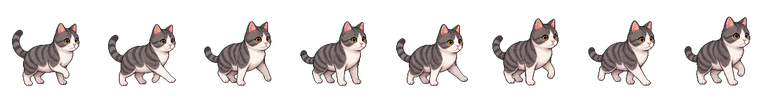
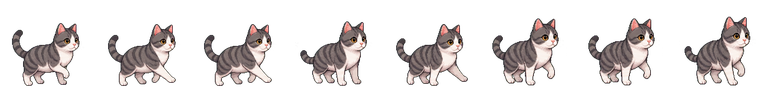
fix: stabilize room interaction visuals

Changed region(s): [[0.25, 0.2188, 0.375, 0.9062], [0.75, 0.1875, 0.875, 0.9062]]

diff --git a/src/components/PhaserCatScene.tsx b/src/components/PhaserCatScene.tsx
@@ -17,7 +17,7 @@ interface CollisionRect {
   height: number;
 }
 
-type CatAction = "idle" | "walk" | "jump" | "sleep" | "interact" | "eat" | "lie";
+type CatAction = "idle" | "walk" | "jump" | "sleep" | "interact" | "lie";
 type CollisionConfig = Record<string, CollisionRect>;
 type EnvironmentZoneKind = "floor" | "perch" | "rest" | "food" | "blocker";
 type CatRoutine =
@@ -68,13 +68,13 @@ interface ScriptedJump {
 }
 
 const SCENE_ASSET_ROOT = "/assets/scenes/window-room";
-const CAT_ACTIONS: CatAction[] = ["idle", "walk", "jump", "sleep", "interact", "eat", "lie"];
+const CAT_ACTIONS: CatAction[] = ["idle", "walk", "jump", "sleep", "interact", "lie"];
 
 const PERSONALITY_SPEED: Record<CatPersonality, number> = {
-  GLUTTON: 32,
-  ALOOFS: 26,
-  CLINGY: 30,
-  ENERGY: 40,
+  GLUTTON: 24,
+  ALOOFS: 20,
+  CLINGY: 22,
+  ENERGY: 30,
 };
 
 const PHYSICAL_SURFACES = new Set(["floor"]);
@@ -118,8 +118,8 @@ const CAT_BED_SURFACE = {
 };
 const CAT_BED_ENTRY_X = CAT_BED_ZONE.xMax + 16;
 const CAT_BED_EXIT_X = CAT_BED_ENTRY_X + 20;
-const FOOD_BOWL_X = FOOD_ZONE.xMin - 30;
-const FOOD_BOWL_STAND_Y = FLOOR_STAND_Y + 28;
+const FOOD_BOWL_X = FOOD_ZONE.xMin - 34;
+const FOOD_BOWL_STAND_Y = FLOOR_STAND_Y + 26;
 const PLANT_INSPECT_X = PLANT_ZONE.xMin - 22;
 const BLANKET_STAND_Y = 156;
 const BLANKET_REST_X = 568;
@@ -175,6 +175,7 @@ class CatRoomScene extends Phaser.Scene {
 
   preload() {
     this.load.image("window-room-background", `${SCENE_ASSET_ROOT}/background.png`);
+    this.load.image("window-room-foreground-cat-bed", `${SCENE_ASSET_ROOT}/foreground-cat-bed.png`);
     this.load.image("window-room-foreground-blanket", `${SCENE_ASSET_ROOT}/foreground-blanket.png`);
     this.load.json("window-room-collision", `${SCENE_ASSET_ROOT}/collision.json`);
     this.load.json("cat-animation-spec", `${SCENE_ASSET_ROOT}/cat/cat.animations.json`);
@@ -361,7 +362,7 @@ class CatRoomScene extends Phaser.Scene {
         this.routineHoldUntil = time + Phaser.Math.Between(2600, 4300);
         this.foodBowlSniffAt = time;
         this.cat.setY(FOOD_BOWL_STAND_Y);
-        this.playCatAction("eat", true);
+        this.playCatAction("idle", true);
       }
       return;
     }
@@ -372,10 +373,10 @@ class CatRoomScene extends Phaser.Scene {
       this.cat.setVelocityX(0);
       this.cat.setFlipX(false);
       if (time >= this.foodBowlSniffAt) {
-        this.playCatAction("eat", true);
-        this.foodBowlSniffAt = time + Phaser.Math.Between(900, 1300);
-      } else if (!this.cat.anims.isPlaying) {
         this.playCatAction("idle", true);
+        this.foodBowlSniffAt = time + Phaser.Math.Between(900, 1300);
+      } else {
+        this.playCatAction("idle");
       }
 
       if (time >= this.routineHoldUntil) {
@@ -691,6 +692,7 @@ class CatRoomScene extends Phaser.Scene {
   }
 
   private createForegroundObjects() {
+    this.add.image(320, 180, "window-room-foreground-cat-bed").setDisplaySize(640, 360).setDepth(6);
     this.add.image(320, 180, "window-room-foreground-blanket").setDisplaySize(640, 360).setDepth(6);
   }
 
@@ -704,7 +706,7 @@ class CatRoomScene extends Phaser.Scene {
           start: 0,
           end: config.frames - 1,
         }),
-        frameRate: action === "walk" ? 6 : config.frameRate,
+        frameRate: action === "walk" ? 4 : config.frameRate,
         repeat: config.repeat,
       });
     });

diff --git a/docs/ENVIRONMENT_INTERACTION_SPEC.md b/docs/ENVIRONMENT_INTERACTION_SPEC.md
@@ -54,8 +54,8 @@ steps into a chosen rest position inside the bed, plays the lying/rest loop, the
 walks back out through the opening before returning to the floor routine.
 
 `rightTray` currently stands for the food bowl area. The cat walks to the bowl
-side and cycles a short sniff/eat hold using the `eat` transition sheet and a
-tiny body dip until a fully hand-authored eating sheet exists.
+side and holds a calm sniff/eat pose using stable idle frames and a tiny body
+dip until a fully hand-authored eating sheet exists.
 
 The folded blanket stack is a small rest surface. It uses a lightweight
 foreground occlusion layer (`foreground-blanket.png`) so the blanket front can
@@ -106,7 +106,7 @@ Phase 0.1 animation behavior, not a game reward loop.
 - `WALKING`: walks toward the active routine target.
 - `JUMPING`: uses a scripted arc for window-bench and blanket up/down travel.
 - `LYING`: plays on the cat bed or blanket surface.
-- `EATING`: uses a repeated short `eat` cycle at the food bowl until a
+- `EATING`: uses a stable idle-based sniff/eat hold at the food bowl until a
   production eating sheet exists.
 - `INTERACTING`: plays the tap response in place, without a vertical hop.
 

diff --git a/public/assets/scenes/window-room/README.md b/public/assets/scenes/window-room/README.md
@@ -3,13 +3,13 @@
 These files are consumed directly by `src/components/PhaserCatScene.tsx`.
 
 - `background.png`: full 16:9 room background, displayed into the Phaser `640x360` logical scene.
+- `foreground-cat-bed.png`: transparent foreground occlusion layer for the cat bed front rim, rendered above the cat so entering/resting in the bed does not read as walking through the prop.
 - `foreground-blanket.png`: transparent foreground occlusion layer for the folded blanket stack, rendered above the cat so blanket-top resting reads correctly.
 - `cat/idle.png`: 4-frame idle sprite sheet, `96x96` per frame.
 - `cat/walk.png`: 8-frame walk sprite sheet, `96x96` per frame.
 - `cat/jump.png`: 5-frame jump sprite sheet, `96x96` per frame.
 - `cat/sleep.png`: 4-frame sleep sprite sheet, `96x96` per frame.
 - `cat/interact.png`: 5-frame click/tap reaction sprite sheet, `96x96` per frame.
-- `cat/eat.png`: 6-frame food-bowl sniff/eat transition sheet, `96x96` per frame.
 - `cat/lie.png`: 4-frame lying/rest sheet for bed and blanket routines, `96x96` per frame.
 - `cat/cat.animations.json`: Phaser animation metadata.
 - `collision.json`: hand-authored Arcade Physics rectangles in Phaser logical coordinates.